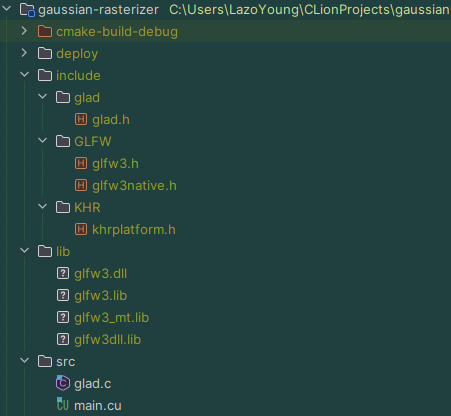
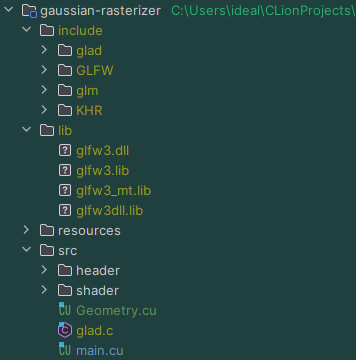
Update README.md

Changed region(s): [[0.0, 0.0, 1.0, 1.0]]

diff --git a/README.md b/README.md
@@ -9,12 +9,17 @@ https://parkcymil.notion.site/Gaussian-Rasterizer-b4d2902d58c24e8280431579519e34
 4. Place the folders under the project root
 
 ### Install GLAD
-1. Download [glad.zip](https://glad.dav1d.de/#language=c&specification=gl&api=gl%3D3.3&api=gles1%3Dnone&api=gles2%3Dnone&api=glsc2%3Dnone&profile=core&loader=on) from GLAD load generator.
+1. Download [glad.zip](https://glad.dav1d.de/#language=c&specification=gl&api=gl%3D3.3&api=gles1%3Dnone&api=gles2%3Dnone&api=glsc2%3Dnone&profile=core&loader=on) from GLAD load generator
 2. Unzip the file to extract `include` and `src` folders
 3. Place them under the project root
 
+### Install GLM
+1. Download [glm-light.zip](https://github.com/g-truc/glm/releases)
+2. Unzip the file to extract `glm` folder
+3. Place it inside `include` under the project root 
+
 ### Project Structure
-<img src="resources/project_structure.png" alt="drawing" width="360"/>
+<img src="resources/project_structure.png" alt="drawing" width="300"/>
 
 ### Build project
 1. Run CMake to build the project
